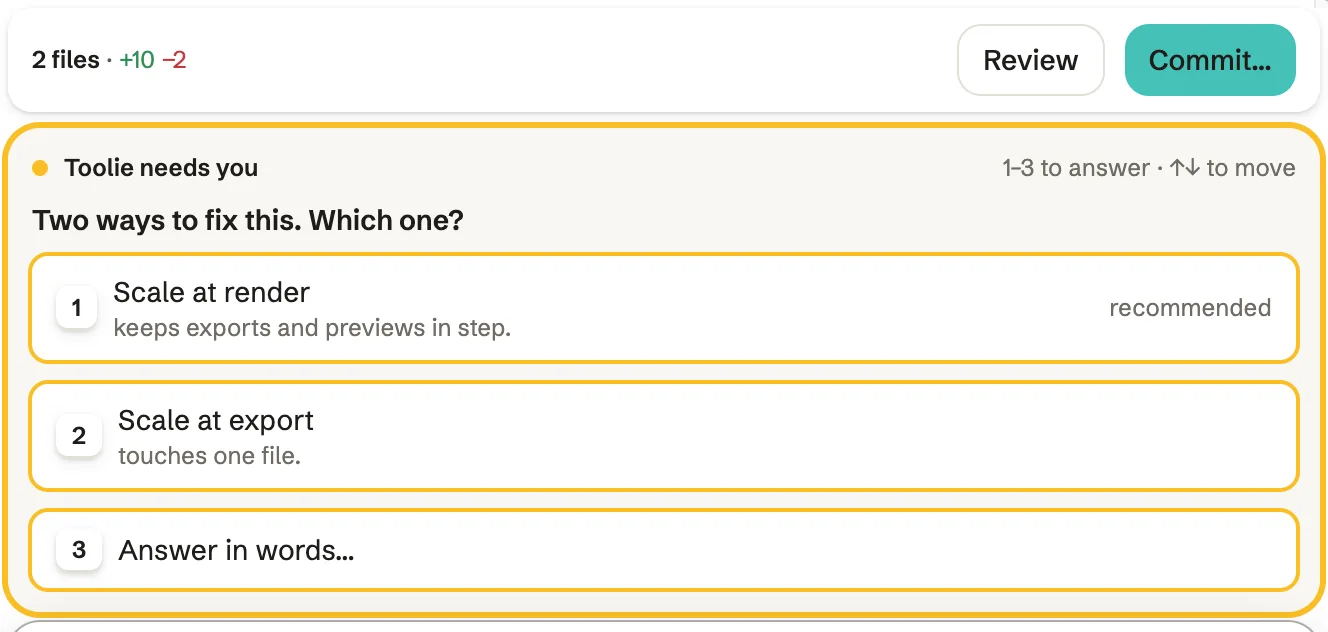
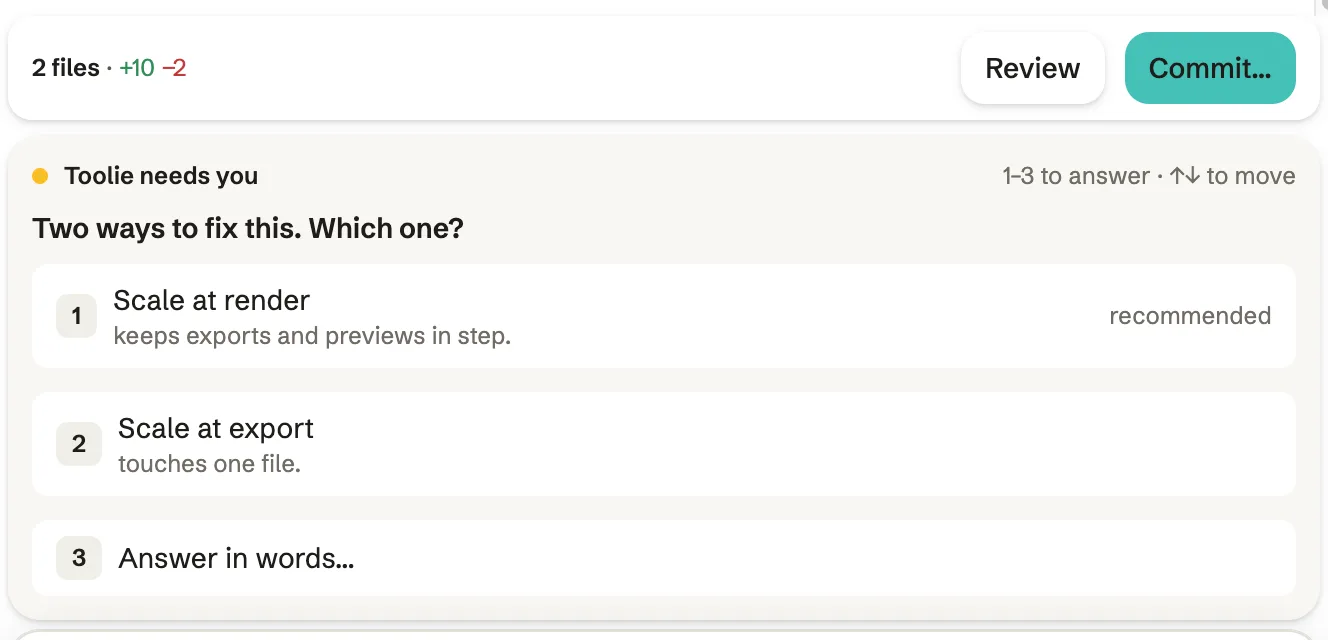
Parti screenshots re-shot after UI-74: teal selected, amber hover, no other outlines
Captured from Parti main b2db877d (outline pass #671) in preview mode, same demo project;
light and dark now framed at the same moment.

diff --git a/src/content/projects.ts b/src/content/projects.ts
@@ -39,11 +39,11 @@ export const projects: Project[] = [
     chips: ["Agentic AI", "Multi-agent orchestration", "Model evaluation", "Content provenance", "Local-first AI"],
     // The running app in its preview mode: demo data, a demo project, nothing from real sessions.
     shots: {
-      card: { src: "/projects/parti/card", width: 1328, height: 632, alt: "Parti asks: two ways to fix the export, which one? Scale at render is recommended" },
+      card: { src: "/projects/parti/card", width: 1328, height: 640, alt: "Parti asks: two ways to fix the export, which one? Scale at render is recommended" },
       hero: { src: "/projects/parti/hero", width: 2400, height: 1500, alt: "The Parti workspace: sessions and agents on the left, the main agent's thread in the middle with a plan running and a question for you, the project's files on the right" },
       steps: [
-        { shot: { src: "/projects/parti/step-1", width: 1328, height: 820, alt: "The plan for “Fix the export at 2x” running as step 3 of 5 on Codex, with a Claude Code worker and the files it read" }, caption: "You ask. The main agent plans the work and hands it to a coding worker: Claude Code or Codex." },
-        { shot: { src: "/projects/parti/step-2", width: 1344, height: 816, alt: "Two questions waiting for you: which fix to take, and whether Claude Code may write to a file" }, caption: "A worker needs you: pick between two fixes, or approve a file write." },
+        { shot: { src: "/projects/parti/step-1", width: 1328, height: 800, alt: "The plan for “Fix the export at 2x” running as step 3 of 5 on Codex, with a Claude Code worker and the files it read" }, caption: "You ask. The main agent plans the work and hands it to a coding worker: Claude Code or Codex." },
+        { shot: { src: "/projects/parti/step-2", width: 1344, height: 788, alt: "Two questions waiting for you: which fix to take, and whether Claude Code may write to a file" }, caption: "A worker needs you: pick between two fixes, or approve a file write." },
         { shot: { src: "/projects/parti/step-3", width: 2000, height: 633, alt: "The main agent browsing a docs page about export scale, with its action log and a Stop button" }, caption: "An agent drives the built-in browser. You can watch it, take over or stop it." },
         { shot: { src: "/projects/parti/step-4", width: 2000, height: 741, alt: "The changes view: two changed files and the diff that stops applying the pixel ratio twice, ready to commit" }, caption: "Review the changes and the diff, then commit." },
         { shot: { src: "/projects/parti/step-5", width: 2000, height: 759, alt: "Proposals: a new skill, “Summarise a long thread”, with Accept, Edit first and Reject" }, caption: "The team learns: it proposes new skills, which you accept, edit or reject." },
